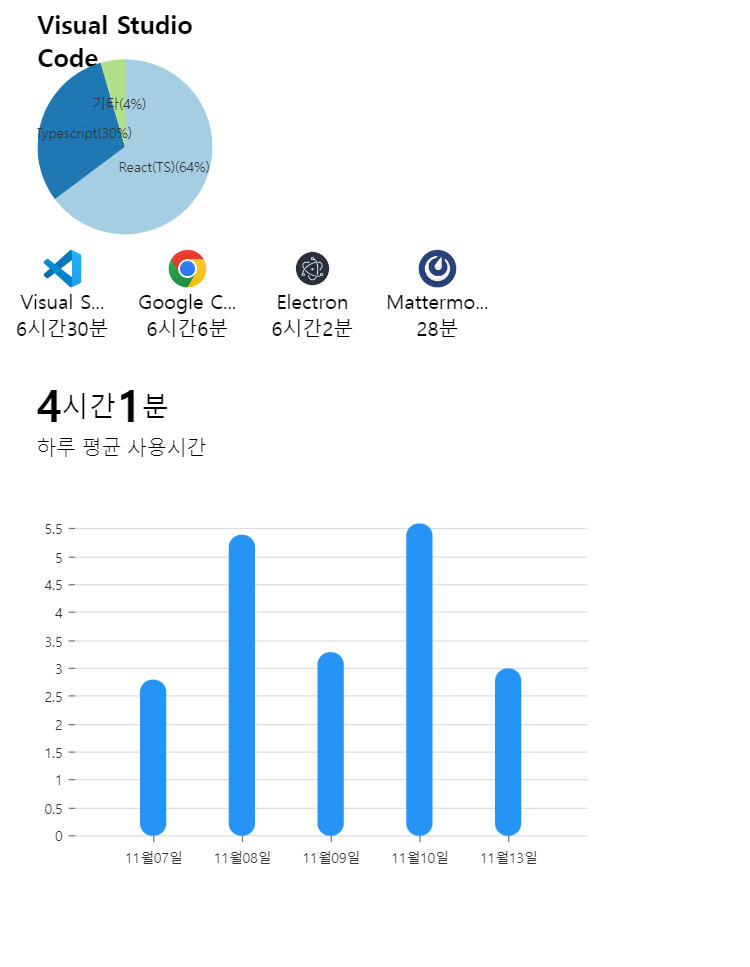
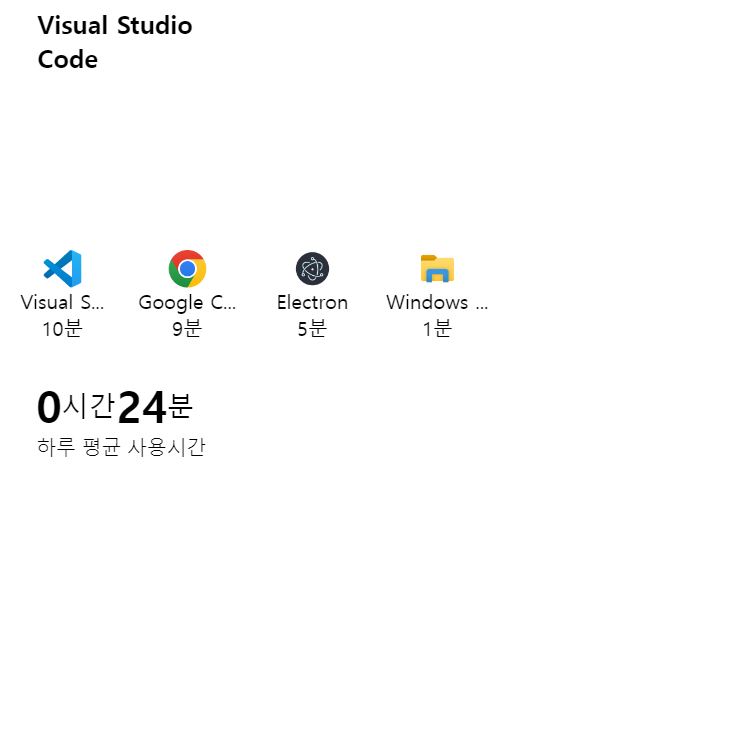
feat: 크롬 익스텐션 연동 기능 추가
Former-commit-id: 8aec3d5098958da7ac02820487cf653a1c026808

diff --git a/electron/src/main/jobtime/jobTime.ts b/electron/src/main/jobtime/jobTime.ts
@@ -2,6 +2,7 @@ import ActiveWindow, { WindowInfo } from '@paymoapp/active-window';
 import { SubActivemapValue, TActiveMap, TSubActiveMap } from './jobTime.d';
 import * as JobDB from './jobTimeDB';
 import * as SubJobDB from './subJobTimeDB';
+import { variables as chromeVariables } from '../socket/chromeSocket';
 
 const TICK_TIME = 10; // TIME_TICK당 한번씩 사용중인 프로그램을 수집
 const SAVE_TICK = 6;
@@ -58,7 +59,9 @@ const processSubJobTime = (activeWindow: WindowInfo) => {
         // application에 대해 정보가 없었으면 넣자
         subActiveMap.set(application, new Map());
       }
-      const subApplicationMap = subActiveMap.get(application) as SubActivemapValue;
+      const subApplicationMap = subActiveMap.get(
+        application,
+      ) as SubActivemapValue;
       if (!subApplicationMap.has(sub_application)) {
         subApplicationMap.set(sub_application, 0);
       }
@@ -147,8 +150,12 @@ function kakaoTalkHandler(activeWindow: WindowInfo): TRoom {
  * @param { WindowInfo } activeWindow
  * @returns {string} 탭 이름
  */
-type TTab = string;
+type TTab = string | null;
 function chromeHandler(activeWindow: WindowInfo): TTab {
+  if (chromeVariables.established) {
+    return chromeVariables.curretActiveTitle;
+  }
+
   const { title } = activeWindow;
   let index = title.lastIndexOf(' - ');
   if (index === -1) return title;
@@ -157,7 +164,10 @@ function chromeHandler(activeWindow: WindowInfo): TTab {
   index = sub_application.lastIndexOf(' - ');
   if (index === -1) return sub_application;
 
-  sub_application = sub_application.substring(index + 3, sub_application.length);
+  sub_application = sub_application.substring(
+    index + 3,
+    sub_application.length,
+  );
   return sub_application;
 }
 // #endregion

diff --git a/electron/src/main/socket/chromeSocket.ts b/electron/src/main/socket/chromeSocket.ts
@@ -1,0 +1,23 @@
+import { WebSocketServer } from 'ws';
+
+const variables = {
+  established: false,
+  curretActiveTitle: null,
+};
+
+const port = 22332;
+const wsServer = new WebSocketServer({ port });
+
+wsServer.on('connection', (ws) => {
+  variables.established = true;
+
+  ws.on('message', (message: string) => {
+    const received = JSON.parse(message.toString());
+    const { command } = received;
+    if (command === 'change-tab') {
+      variables.curretActiveTitle = received.value;
+    }
+  });
+});
+
+export { variables };

diff --git a/electron/src/renderer/components/jobtime/PieChart.tsx b/electron/src/renderer/components/jobtime/PieChart.tsx
@@ -81,11 +81,12 @@ function PieChart({ application, day, type }: TPiechart) {
     });
     setTotalActiveTime(acc);
 
+    // 일정 비율이 넘어가지않는 것들에 대해서는 합쳐서 '기타'로 표시
     const result = data.filter((item) => {
-      return item.value / acc >= 0.1;
+      return item.value / acc >= 0.05;
     });
     const etcs = data.filter((item) => {
-      return item.value / acc < 0.1;
+      return item.value / acc < 0.05;
     });
 
     const sumOfEtc = etcs

diff --git a/electron/src/main/main.ts b/electron/src/main/main.ts
@@ -1,4 +1,4 @@
-import { app, dialog, globalShortcut } from 'electron';
+import { app, globalShortcut } from 'electron';
 import { autoUpdater } from 'electron-updater';
 import log from 'electron-log';
 
@@ -96,6 +96,9 @@ app
         './shortcut/globalShortcutHandler'
       );
       globalShortcutHandler();
+
+      // 웹소켓
+      await import('./socket/chromeSocket');
 
       // 사용시간 체크
       await import('./jobtime/jobTime');
